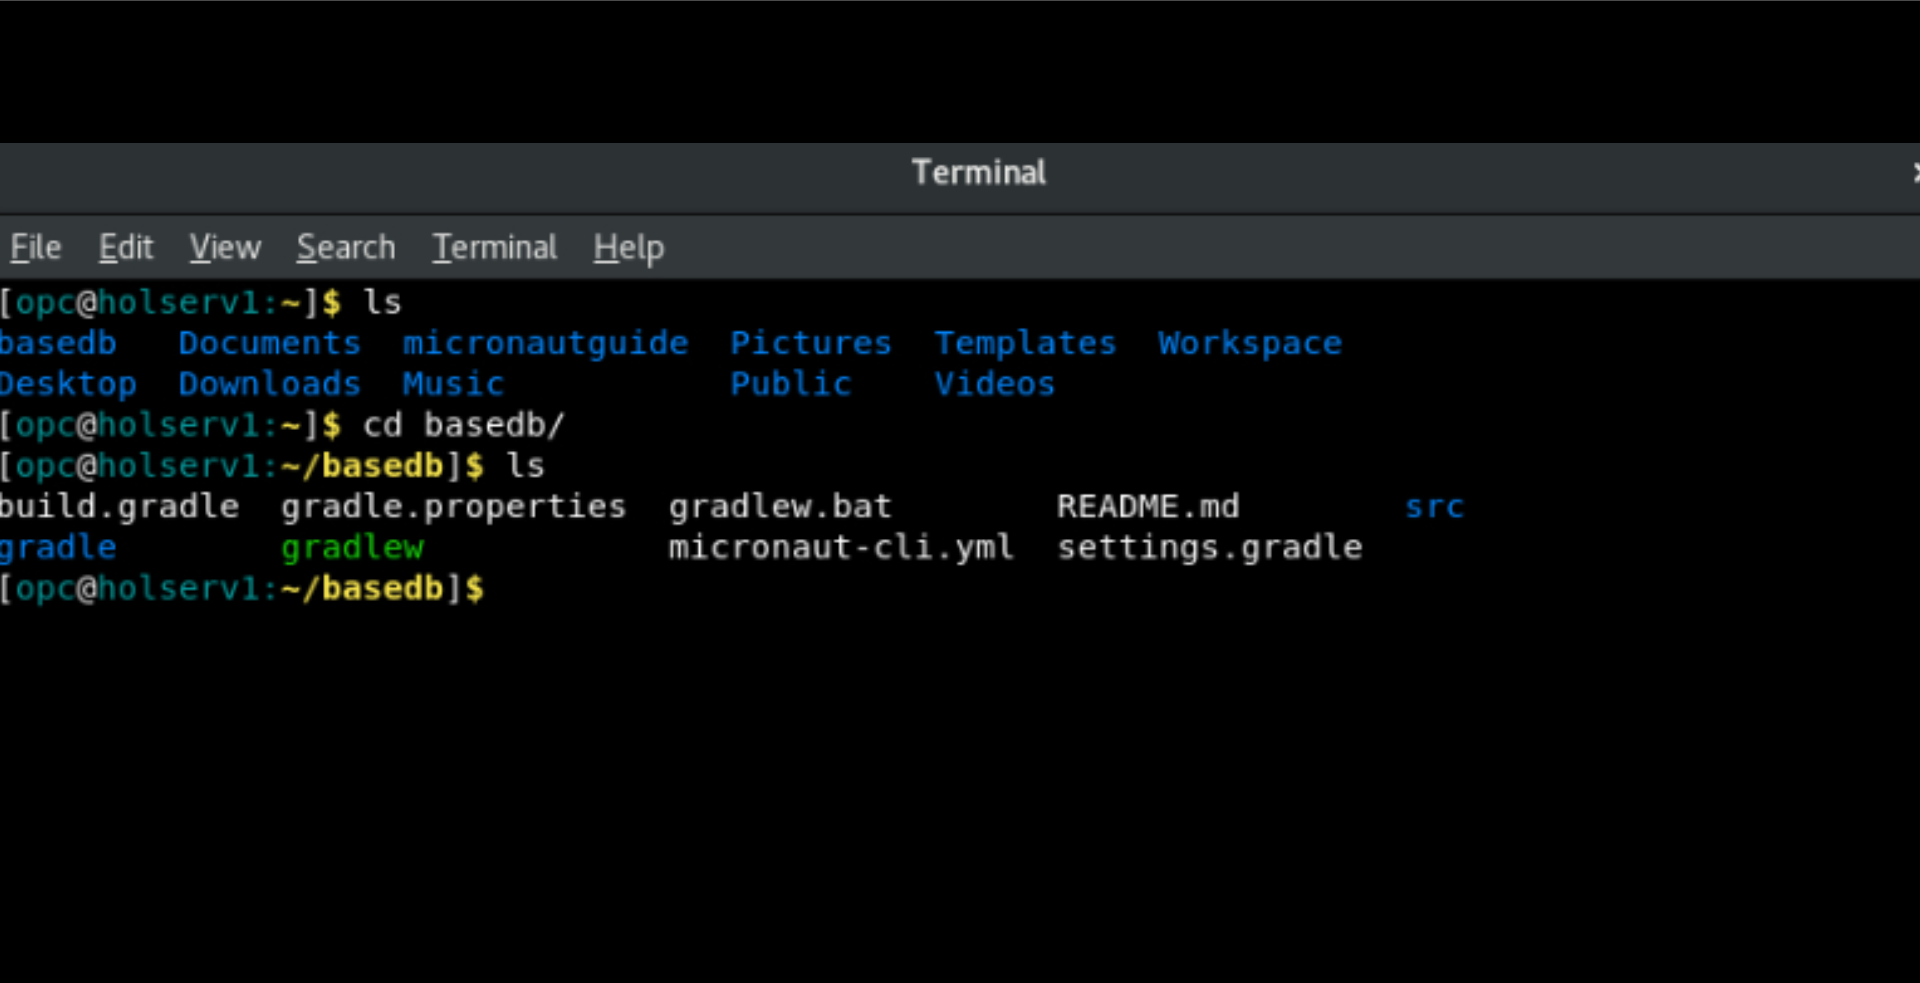
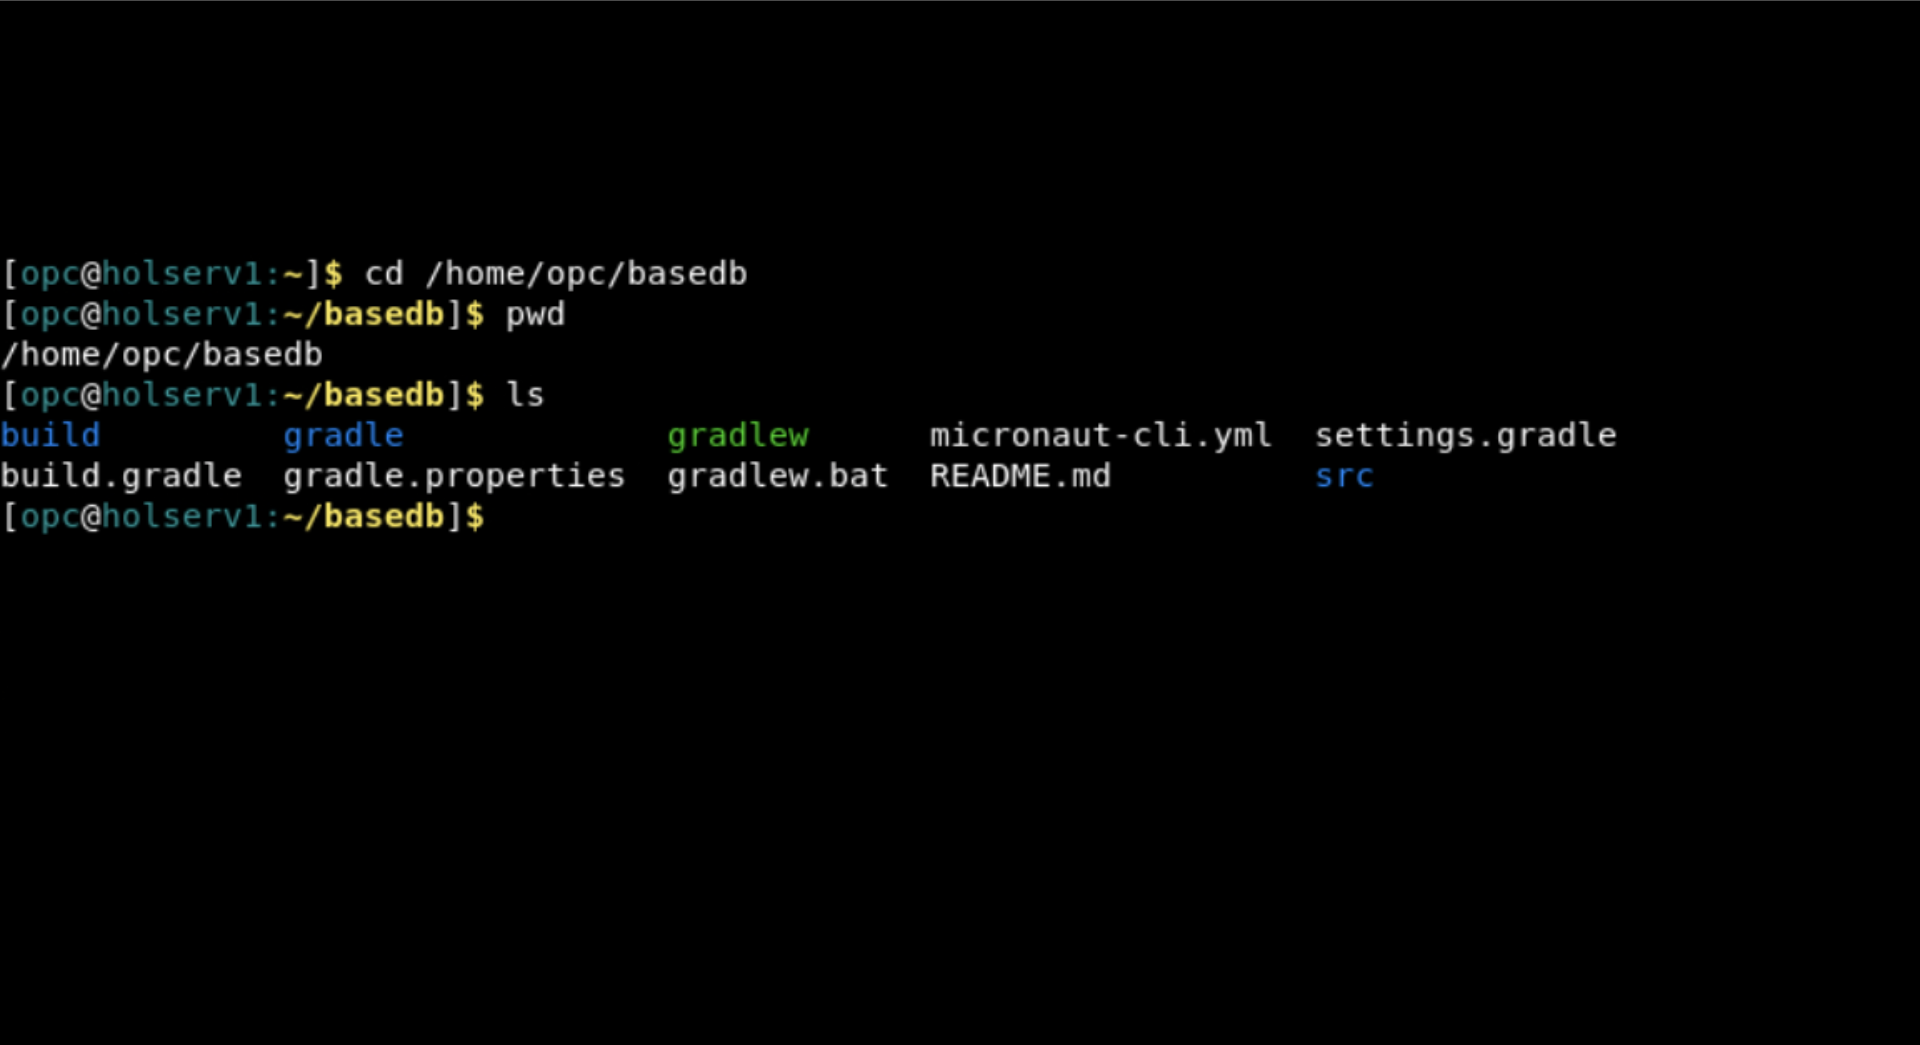
HOL46 #11132: Deploy a Microservice App Connected to Oracle Base Database Service (#19)
* added introduction

* Set theme jekyll-theme-cayman

* Update manifest.json

* added changes

* added changes

* added bonus labs

* added changes

* Update lab3-configure-app-to-connect-to-basedb.md

* added changes

* Update micronaut-launch.png

* Update lab3-configure-app-to-connect-to-basedb.md

* Update lab3-configure-app-to-connect-to-basedb.md

* added changes

* Delete _config.yml

* added changes in manifest file

* added changes

* Update lab3-configure-app-to-connect-to-basedb.md

* Update lab4-run-the-application.md

* Update lab4-run-the-application.md

* added the changes

* added changes

* Update introduction.md

* added changes in lab1

* added screenshots

* added all screenshots

* Update lab5-bonus-labs.md

* Update lab2-create-app-tier.md

* added changes

* added changes

* added changes

* Update introduction.md

* Update lab3-configure-app-to-connect-to-basedb.md

* added changes

* added changes

* Update lab5-bonus-labs.md

* Added changes for images

* added updated commands

* added changes

* added changes

* Update lab3-configure-app-to-connect-to-basedb.md

Changed region(s): [[0.0, 0.1221, 1.0, 0.6104], [0.7188, 0.4883, 0.75, 0.5188]]

diff --git a/base-database-service/microservices-app-with-base-db-service/lab3/lab3-configure-app-to-connect-to-basedb.md b/base-database-service/microservices-app-with-base-db-service/lab3/lab3-configure-app-to-connect-to-basedb.md
@@ -78,6 +78,10 @@ This lab requires completion of the following:
 
     ![Launch Terminal](./images/terminal.mn.png" ")
 
+    Check that your present working directory should be in */home/opc*
+
+    ![current directory](./images/homeopc.png" ")
+
     Copy the mn command below to create an application that uses Micronaut with the following configuration:
 
     * JDK 11 as the Java version.
@@ -110,13 +114,28 @@ This lab requires completion of the following:
 
 
 
+2. Create the required directories for application deployment
 
-2. Create a Thing entity class to represent database data:
+   open the terminal and run the following commands:
 
-   Create *domain* folder under *src/main/java/example/basedb*
+     ```
+        <copy>
+
+        mkdir -p /home/opc/basedb/src/main/java/example/basedb/repository  
+        mkdir -p /home/opc/basedb/src/main/java/example/basedb/domain
+        mkdir -p /home/opc/basedb/src/main/java/example/basedb/controller
+        mkdir -p /home/opc/basedb/src/main/resources/db/migration
+
+        </copy>
+
+     ```
+
+
+3. Create a Thing entity class to represent database data:
+
 
    Download the entity class *Thing.java* from [**This Link**](./files/Thing.java) and copy it to this directory
-   *src/main/java/example/basedb/domain/Thing.java*
+   */home/opc/basedb/src/main/java/example/basedb/domain/Thing.java*
 
 
 
@@ -166,13 +185,11 @@ This lab requires completion of the following:
 
 
 
-3. Create a Repository class
+4. Create a Repository class
 
    Create a ThingRepository class to read and write data into the database table named Thing:
 
-   Create *repository* folder under *src/main/java/example/basedb*
-
-   Download the repository class *ThingRepository.java* from [**This Link**](./files/ThingRepository.java) and copy it to this directory *src/main/java/example/basedb/repository/ThingRepository.java*
+   Download the repository class *ThingRepository.java* from [**This Link**](./files/ThingRepository.java) and copy it to this directory */home/opc/basedb/src/main/java/example/basedb/repository/ThingRepository.java*
 
        ```
 
@@ -204,11 +221,11 @@ This lab requires completion of the following:
 
        ```
 
-4. Create a Data populator Class
+5. Create a Data populator Class
 
    Create a **DataPopulator** class to create some example database entries when the application starts:
 
-   Download the Data populator Class *DataPopulator.java* from [**This Link**](./files/DataPopulator.java) and copy it to this directory *src/main/java/example/basedb/DataPopulator.java*
+   Download the Data populator Class *DataPopulator.java* from [**This Link**](./files/DataPopulator.java) and copy it to this directory */home/opc/basedb/src/main/java/example/basedb/DataPopulator.java*
 
        ```
        <copy>
@@ -253,13 +270,11 @@ This lab requires completion of the following:
 
        ```
 
-5. Create a Controller Class
+6. Create a Controller Class
 
    Create a **ThingController** class to view persisted data:
 
-   Create *controller* folder under *src/main/java/example/basedb*
-
-   Download the controller class *ThingController.java* from [**This Link**](./files/ThingController.java) and copy it to this directory *src/main/java/example/basedb/controller/ThingController.java*
+   Download the controller class *ThingController.java* from [**This Link**](./files/ThingController.java) and copy it to this directory */home/opc/basedb/src/main/java/example/basedb/controller/ThingController.java*
 
        ```
        <copy>
@@ -309,7 +324,7 @@ This lab requires completion of the following:
 
 1. Create configuration
 
-   Create a new Flyway migration SQL script into this directory *src/main/resources/db/migration/V1__create-schema.sql*
+   Create a new Flyway migration SQL script into this directory */home/opc/basedb/src/main/resources/db/migration/V1__create-schema.sql*
 
    You can download the SQL script from [**This Link**](./files/V1__create-schema.sql). Ensure to save the file with the *.sql* extension
 
@@ -323,7 +338,13 @@ This lab requires completion of the following:
 
        ```
 
-       Edit *src/main/resources/logback.xml* and add the following (anywhere in the <configuration> element) to monitor the SQL queries that Micronaut Data performs:
+       Edit */home/opc/basedb/src/main/resources/logback.xml* using the *VsCode* editor
+
+       Launch the Vs code editor by clicking on the Activities and search for *VsCode*
+
+       ![Launch Vs code editor](./images/vseditor.png" ")
+
+       and add the following (anywhere in the <configuration> element) to monitor the SQL queries that Micronaut Data performs:
 
        ```
        <copy>
@@ -334,18 +355,21 @@ This lab requires completion of the following:
 
        ```
 
+       ![Edit logback.xml](./images/logbackxml.png" ")
+
+
 2. Add and configure the Application Datasources with the Oracle Base Database Service connection information and credentials.
 
-   Replace the content of the *application.yml* from *src/main/resources/application.yml* with below:
+   Replace the *application.yml* file from */home/opc/basedb/src/main/resources/application.yml* with [**This File**](./files/application.yml)
 
-   Ensure to update the **url** value under the **datasources:** with your specific environment values
+   Ensure to update the file using the VsCode editor for the **url** value under the **datasources:** with your specific environment values
 
     * [dbhostname IP]
     * [port]
     * [database service name]
 
       ```
-      <copy>
+
 
         micronaut:
           application:
@@ -362,9 +386,9 @@ This lab requires completion of the following:
             password: WELcome123##
             dialect: ORACLE
             data-source-properties:
-             oracle:
-              jdbc:
-               fanEnabled: false
+            oracle:
+            jdbc:
+            fanEnabled: false
         flyway:
           datasources:
             default:
@@ -374,7 +398,7 @@ This lab requires completion of the following:
             allocator:
               max-order: 3
 
-       </copy>
+
 
        ```
 

diff --git a/base-database-service/microservices-app-with-base-db-service/lab4/lab4-run-the-application.md b/base-database-service/microservices-app-with-base-db-service/lab4/lab4-run-the-application.md
@@ -22,7 +22,7 @@ This lab requires completion of the following:
 
 ## Task 1: Run the Application.
 
-1. Open the terminal, go to the directory of your application *basedb*
+1. Open the terminal, go to the directory of your application */home/opc/basedb*
 
    ![Navigate to app home directory](./images/basedb.png" ")
 
